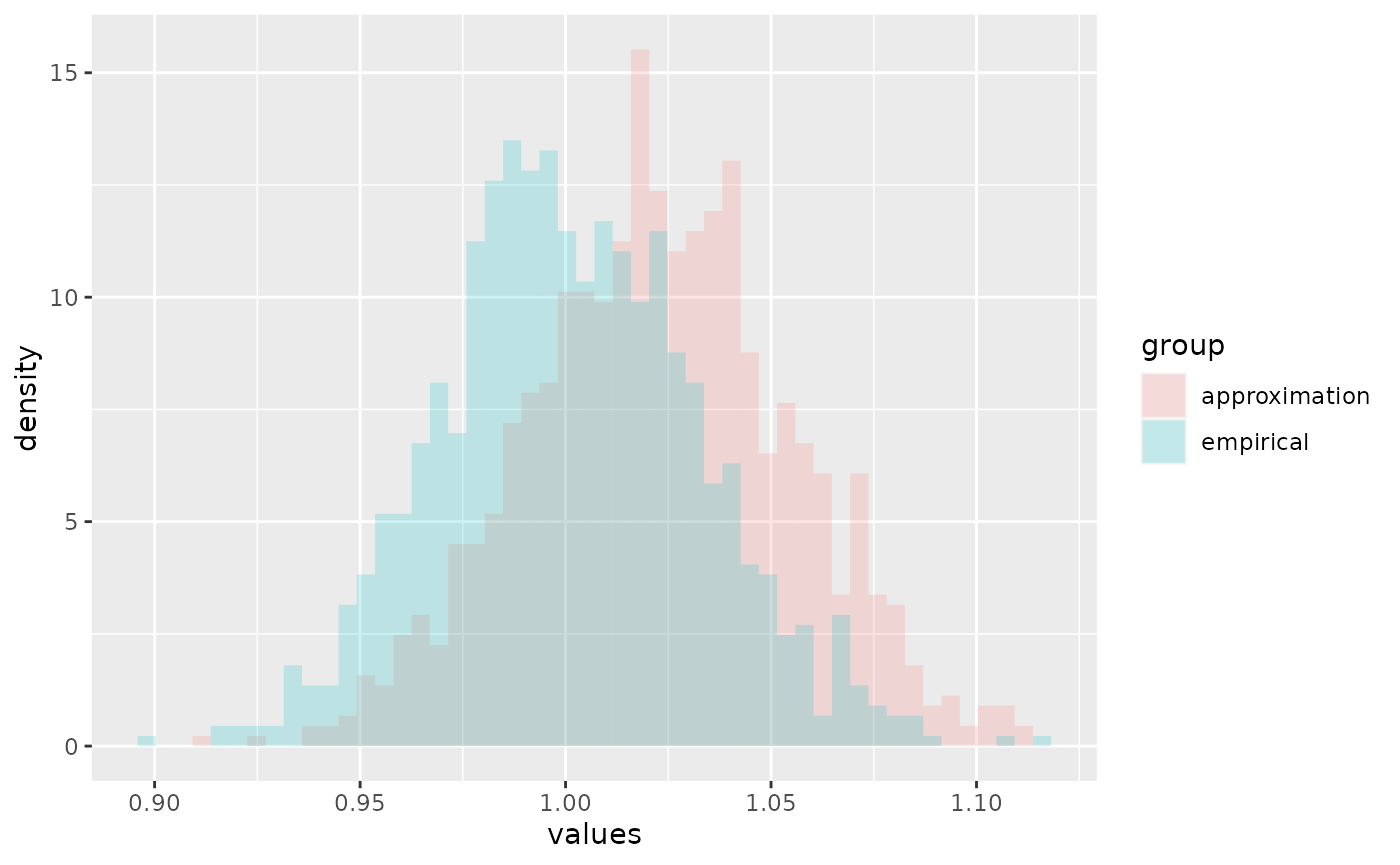
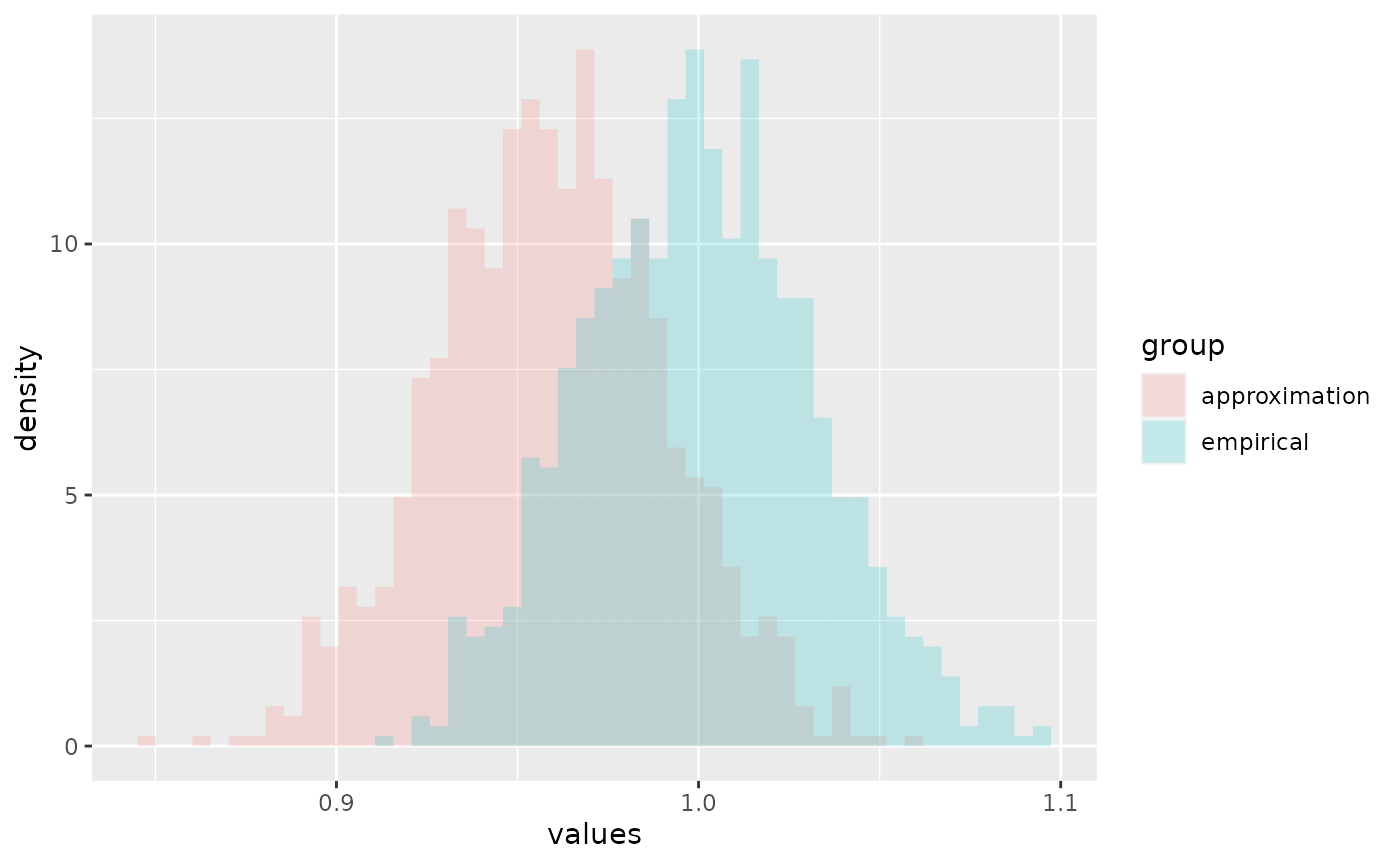
Built site for algebraic.mle: 0.1.0@a93bfe0

diff --git a/articles/exponential-mle.html b/articles/exponential-mle.html
@@ -85,9 +85,7 @@
 <p>To demonstrate the <code>algebraic.mle</code> R package, we consider the relatively simple case of a random sample from the exponentially distributed random variables.</p>
 <p>First, we load the R package <code>algebraic.mle</code> with:</p>
 <div class="sourceCode" id="cb1"><pre class="downlit sourceCode r">
-<code class="sourceCode R"><span class="co">#library(devtools)</span>
-<span class="co">#devtools::install_github("queelius/algebraic.mle")</span>
-<span class="kw"><a href="https://rdrr.io/r/base/library.html" class="external-link">library</a></span><span class="op">(</span><span class="va"><a href="https://github.com/queelius/algebraic.mle" class="external-link">algebraic.mle</a></span><span class="op">)</span></code></pre></div>
+<code class="sourceCode R"><span class="kw"><a href="https://rdrr.io/r/base/library.html" class="external-link">library</a></span><span class="op">(</span><span class="va"><a href="https://github.com/queelius/algebraic.mle" class="external-link">algebraic.mle</a></span><span class="op">)</span></code></pre></div>
 </div>
 <div class="section level2">
 <h2 id="generating-a-sample">Generating a sample<a class="anchor" aria-label="anchor" href="#generating-a-sample"></a>
@@ -103,12 +101,12 @@
 <div class="sourceCode" id="cb3"><pre class="downlit sourceCode r">
 <code class="sourceCode R"><span class="fu"><a href="https://rdrr.io/r/base/print.html" class="external-link">print</a></span><span class="op">(</span><span class="fu"><a href="https://rdrr.io/r/utils/head.html" class="external-link">head</a></span><span class="op">(</span><span class="va">x</span>,n<span class="op">=</span><span class="fl">4</span><span class="op">)</span><span class="op">)</span>
 <span class="co">#&gt; <span style="color: #949494;"># A tibble: 4 × 1</span></span>
-<span class="co">#&gt;        x</span>
-<span class="co">#&gt;    <span style="color: #949494; font-style: italic;">&lt;dbl&gt;</span></span>
-<span class="co">#&gt; <span style="color: #BCBCBC;">1</span> 0.028<span style="text-decoration: underline;">2</span></span>
-<span class="co">#&gt; <span style="color: #BCBCBC;">2</span> 0.041<span style="text-decoration: underline;">0</span></span>
-<span class="co">#&gt; <span style="color: #BCBCBC;">3</span> 1.26  </span>
-<span class="co">#&gt; <span style="color: #BCBCBC;">4</span> 1.12</span></code></pre></div>
+<span class="co">#&gt;       x</span>
+<span class="co">#&gt;   <span style="color: #949494; font-style: italic;">&lt;dbl&gt;</span></span>
+<span class="co">#&gt; <span style="color: #BCBCBC;">1</span> 2.71 </span>
+<span class="co">#&gt; <span style="color: #BCBCBC;">2</span> 1.94 </span>
+<span class="co">#&gt; <span style="color: #BCBCBC;">3</span> 0.163</span>
+<span class="co">#&gt; <span style="color: #BCBCBC;">4</span> 0.548</span></code></pre></div>
 <p>We show a histogram of the sample, and a plot of the exponential function’s pdf, with:</p>
 <div class="sourceCode" id="cb4"><pre class="downlit sourceCode r">
 <code class="sourceCode R"><span class="kw"><a href="https://rdrr.io/r/base/library.html" class="external-link">library</a></span><span class="op">(</span><span class="va"><a href="https://ggplot2.tidyverse.org" class="external-link">ggplot2</a></span><span class="op">)</span>
@@ -122,40 +120,39 @@
 </h2>
 <p>If we would like to estimate <span class="math inline">\(\lambda\)</span>, we can do so using maximum likelihood estimation as implemented by the <code>algebraic.mle</code> package:</p>
 <div class="sourceCode" id="cb5"><pre class="downlit sourceCode r">
-<code class="sourceCode R"><span class="kw"><a href="https://rdrr.io/r/base/library.html" class="external-link">library</a></span><span class="op">(</span><span class="va"><a href="https://github.com/queelius/algebraic.mle" class="external-link">algebraic.mle</a></span><span class="op">)</span>
-<span class="va">rate.hat</span> <span class="op">&lt;-</span> <span class="fu"><a href="../reference/mle_exp.html">mle_exp</a></span><span class="op">(</span><span class="va">x</span><span class="op">$</span><span class="va">x</span><span class="op">)</span>
+<code class="sourceCode R"><span class="va">rate.hat</span> <span class="op">&lt;-</span> <span class="fu"><a href="../reference/mle_exp.html">mle_exp</a></span><span class="op">(</span><span class="va">x</span><span class="op">$</span><span class="va">x</span><span class="op">)</span>
 <span class="fu"><a href="https://rdrr.io/r/base/summary.html" class="external-link">summary</a></span><span class="op">(</span><span class="va">rate.hat</span><span class="op">)</span>
 <span class="co">#&gt; Maximum likelihood estimator, of type mle_exp ,</span>
 <span class="co">#&gt; is normally distributed with mean</span>
-<span class="co">#&gt; [1] 1.022601</span>
+<span class="co">#&gt; [1] 0.9586244</span>
 <span class="co">#&gt; and variance-covariance</span>
-<span class="co">#&gt;             [,1]</span>
-<span class="co">#&gt; [1,] 0.001045712</span>
+<span class="co">#&gt;              [,1]</span>
+<span class="co">#&gt; [1,] 0.0009189607</span>
 <span class="co">#&gt; ---</span>
-<span class="co">#&gt; The asymptotic mean squared error 0.001045712 </span>
+<span class="co">#&gt; The asymptotic mean squared error 0.0009189607 </span>
 <span class="co">#&gt; The asymptotic 95% confidence interval is</span>
 <span class="co">#&gt;       2.5 %   97.5 %</span>
-<span class="co">#&gt; 1 0.9694101 1.075791</span>
-<span class="co">#&gt; The log-likelihood is -977.6511 </span>
-<span class="co">#&gt; The AIC is 1957.302</span></code></pre></div>
+<span class="co">#&gt; 1 0.9087617 1.008487</span>
+<span class="co">#&gt; The log-likelihood is -1042.256 </span>
+<span class="co">#&gt; The AIC is 2086.512</span></code></pre></div>
 <p>We can show the point estimator with:</p>
 <div class="sourceCode" id="cb6"><pre class="downlit sourceCode r">
 <code class="sourceCode R"><span class="fu"><a href="../reference/point.html">point</a></span><span class="op">(</span><span class="va">rate.hat</span><span class="op">)</span>
-<span class="co">#&gt; [1] 1.022601</span></code></pre></div>
+<span class="co">#&gt; [1] 0.9586244</span></code></pre></div>
 <p>We can show the Fisher information and variance-covariance matrices with:</p>
 <div class="sourceCode" id="cb7"><pre class="downlit sourceCode r">
 <code class="sourceCode R"><span class="fu"><a href="../reference/fisher_info.html">fisher_info</a></span><span class="op">(</span><span class="va">rate.hat</span><span class="op">)</span>
 <span class="co">#&gt;          [,1]</span>
-<span class="co">#&gt; [1,] 956.2864</span>
+<span class="co">#&gt; [1,] 1088.186</span>
 <span class="fu"><a href="https://rdrr.io/r/stats/vcov.html" class="external-link">vcov</a></span><span class="op">(</span><span class="va">rate.hat</span><span class="op">)</span>
-<span class="co">#&gt;             [,1]</span>
-<span class="co">#&gt; [1,] 0.001045712</span></code></pre></div>
+<span class="co">#&gt;              [,1]</span>
+<span class="co">#&gt; [1,] 0.0009189607</span></code></pre></div>
 <p>(If <code>rate.hat</code> had been a vector, <code>vcov</code> would have output a variance-covariance matrix. We may consider the above outputs <span class="math inline">\(1 \times 1\)</span> matrices.)</p>
 <p>We can show the confidence interval with:</p>
 <div class="sourceCode" id="cb8"><pre class="downlit sourceCode r">
 <code class="sourceCode R"><span class="fu"><a href="https://rdrr.io/r/stats/confint.html" class="external-link">confint</a></span><span class="op">(</span><span class="va">rate.hat</span><span class="op">)</span>
 <span class="co">#&gt;       2.5 %   97.5 %</span>
-<span class="co">#&gt; 1 0.9694101 1.075791</span></code></pre></div>
+<span class="co">#&gt; 1 0.9087617 1.008487</span></code></pre></div>
 <div class="section level3">
 <h3 id="sampling-distribution-of-the-mle">Sampling distribution of the MLE<a class="anchor" aria-label="anchor" href="#sampling-distribution-of-the-mle"></a>
 </h3>
@@ -201,15 +198,16 @@
 <code class="sourceCode R"><span class="va">f</span> <span class="op">&lt;-</span> <span class="kw">function</span><span class="op">(</span><span class="va">lambda</span><span class="op">)</span> <span class="fl">2</span><span class="op">*</span><span class="va">lambda</span></code></pre></div>
 <p>We compute the MLE of <span class="math inline">\(2 \hat\lambda\)</span> (using a simulation size <span class="math inline">\(n=1000\)</span>) with:</p>
 <div class="sourceCode" id="cb13"><pre class="downlit sourceCode r">
-<code class="sourceCode R"><span class="va">g.hat</span> <span class="op">&lt;-</span> <span class="fu"><a href="../reference/rmap.html">rmap</a></span><span class="op">(</span><span class="va">rate.hat</span>,<span class="va">f</span>,n<span class="op">=</span><span class="fl">1000</span><span class="op">)</span></code></pre></div>
+<code class="sourceCode R"><span class="va">f.hat</span> <span class="op">&lt;-</span> <span class="fu"><a href="../reference/rmap.html">rmap</a></span><span class="op">(</span><span class="va">rate.hat</span>,<span class="va">f</span>,n<span class="op">=</span><span class="fl">1000</span><span class="op">)</span></code></pre></div>
+<p>Note that the simulation size is only for estimating <span class="math inline">\(f(\lambda)\)</span>, but the and we can make this as large as we wish, but it will only be as good as the original estimate of <span class="math inline">\(\theta\)</span>, which we cannot control.</p>
 <p>Then, <span class="math inline">\(\operatorname{var}(f(\hat\lambda)) = 4 \lambda^2/n\)</span>. Letting <span class="math inline">\(\lambda=1\)</span>, we see that, asymptotically, <span class="math inline">\(g(\hat\lambda) \sim N(2,4/n)\)</span>.</p>
 <p>We expected a mean of <span class="math inline">\(2\)</span> and a variance of <span class="math inline">\(4/n = 0.004\)</span>, which is pretty close to what we obtained:</p>
 <div class="sourceCode" id="cb14"><pre class="downlit sourceCode r">
-<code class="sourceCode R"><span class="fu"><a href="../reference/point.html">point</a></span><span class="op">(</span><span class="va">g.hat</span><span class="op">)</span>
-<span class="co">#&gt; [1] 2.045201</span>
-<span class="fu"><a href="https://rdrr.io/r/stats/vcov.html" class="external-link">vcov</a></span><span class="op">(</span><span class="va">g.hat</span><span class="op">)</span>
+<code class="sourceCode R"><span class="fu"><a href="../reference/point.html">point</a></span><span class="op">(</span><span class="va">f.hat</span><span class="op">)</span>
+<span class="co">#&gt; [1] 1.917249</span>
+<span class="fu"><a href="https://rdrr.io/r/stats/vcov.html" class="external-link">vcov</a></span><span class="op">(</span><span class="va">f.hat</span><span class="op">)</span>
 <span class="co">#&gt;            [,1]</span>
-<span class="co">#&gt; [1,] 0.00450384</span></code></pre></div>
+<span class="co">#&gt; [1,] 0.00352431</span></code></pre></div>
 </div>
 </div>
 </div>
@@ -237,8 +235,24 @@
     <span class="va">mles.sub</span><span class="op">[[</span><span class="va">i</span><span class="op">]</span><span class="op">]</span> <span class="op">&lt;-</span> <span class="fu"><a href="../reference/mle_exp.html">mle_exp</a></span><span class="op">(</span><span class="va">samp.sub</span><span class="op">[</span><span class="va">i</span>,<span class="op">]</span><span class="op">)</span>
 
 <span class="va">mle.wt</span> <span class="op">&lt;-</span> <span class="fu"><a href="../reference/mle_weighted.html">mle_weighted</a></span><span class="op">(</span><span class="va">mles.sub</span><span class="op">)</span>
+
 <span class="va">mle</span> <span class="op">&lt;-</span> <span class="fu"><a href="../reference/mle_exp.html">mle_exp</a></span><span class="op">(</span><span class="va">samp</span><span class="op">)</span></code></pre></div>
 <p>We show the results in the following table:</p>
+<div class="sourceCode" id="cb16"><pre class="downlit sourceCode r">
+<code class="sourceCode R"><span class="kw"><a href="https://rdrr.io/r/base/library.html" class="external-link">library</a></span><span class="op">(</span><span class="va"><a href="http://haozhu233.github.io/kableExtra/" class="external-link">kableExtra</a></span><span class="op">)</span>
+<span class="va">df</span> <span class="op">&lt;-</span> <span class="fu"><a href="https://rdrr.io/r/base/data.frame.html" class="external-link">data.frame</a></span><span class="op">(</span>
+    <span class="fu"><a href="https://rdrr.io/r/base/c.html" class="external-link">c</a></span><span class="op">(</span><span class="fu"><a href="../reference/point.html">point</a></span><span class="op">(</span><span class="va">mle.wt</span><span class="op">)</span>,<span class="fu"><a href="../reference/point.html">point</a></span><span class="op">(</span><span class="va">mle</span><span class="op">)</span><span class="op">)</span>,
+    <span class="fu"><a href="https://rdrr.io/r/base/c.html" class="external-link">c</a></span><span class="op">(</span><span class="fu"><a href="https://rdrr.io/r/stats/vcov.html" class="external-link">vcov</a></span><span class="op">(</span><span class="va">mle.wt</span><span class="op">)</span>,<span class="fu"><a href="https://rdrr.io/r/stats/vcov.html" class="external-link">vcov</a></span><span class="op">(</span><span class="va">mle</span><span class="op">)</span><span class="op">)</span><span class="op">)</span>
+
+<span class="fu"><a href="https://rdrr.io/r/base/colnames.html" class="external-link">colnames</a></span><span class="op">(</span><span class="va">df</span><span class="op">)</span> <span class="op">&lt;-</span> <span class="fu"><a href="https://rdrr.io/r/base/c.html" class="external-link">c</a></span><span class="op">(</span><span class="st">"point estimate"</span>,<span class="st">"variance"</span><span class="op">)</span>
+<span class="fu"><a href="https://tibble.tidyverse.org/reference/rownames.html" class="external-link">rownames</a></span><span class="op">(</span><span class="va">df</span><span class="op">)</span> <span class="op">&lt;-</span> <span class="fu"><a href="https://rdrr.io/r/base/c.html" class="external-link">c</a></span><span class="op">(</span><span class="st">"weighted MLE"</span>, <span class="st">"MLE"</span><span class="op">)</span>
+
+<span class="fu">knitr</span><span class="fu">::</span><span class="fu"><a href="https://rdrr.io/pkg/knitr/man/kable.html" class="external-link">kable</a></span><span class="op">(</span><span class="va">df</span>,
+             bootstrap_options<span class="op">=</span><span class="st">"striped"</span>,
+             full_width<span class="op">=</span><span class="cn">F</span>,
+             digits<span class="op">=</span><span class="fl">3</span>,
+             label<span class="op">=</span><span class="st">"weighted.mle"</span>,
+             caption<span class="op">=</span><span class="st">"Weighted MLE vs MLE"</span><span class="op">)</span></code></pre></div>
 <p>We see that <span class="math inline">\(\hat\theta\)</span> and <span class="math inline">\(\hat\theta_w\)</span> model approximately the same sampling distribution for <span class="math inline">\(\theta\)</span>.</p>
 </div>
 </div>

diff --git a/reference/algebraic.mle.html b/reference/algebraic.mle.html
@@ -1,7 +1,13 @@
 <!DOCTYPE html>
-<!-- Generated by pkgdown: do not edit by hand --><html lang="en"><head><meta http-equiv="Content-Type" content="text/html; charset=UTF-8"><meta charset="utf-8"><meta http-equiv="X-UA-Compatible" content="IE=edge"><meta name="viewport" content="width=device-width, initial-scale=1, shrink-to-fit=no"><meta name="description" content="The algebraic.mle package provides three categories of important functions:"><title>algebraic.mle: A package for algebraically operating on maximum likelihood
-               estimators. — algebraic.mle • algebraic.mle</title><script src="../deps/jquery-3.6.0/jquery-3.6.0.min.js"></script><meta name="viewport" content="width=device-width, initial-scale=1, shrink-to-fit=no"><link href="../deps/bootstrap-5.1.0/bootstrap.min.css" rel="stylesheet"><script src="../deps/bootstrap-5.1.0/bootstrap.bundle.min.js"></script><!-- Font Awesome icons --><link rel="stylesheet" href="https://cdnjs.cloudflare.com/ajax/libs/font-awesome/5.12.1/css/all.min.css" integrity="sha256-mmgLkCYLUQbXn0B1SRqzHar6dCnv9oZFPEC1g1cwlkk=" crossorigin="anonymous"><link rel="stylesheet" href="https://cdnjs.cloudflare.com/ajax/libs/font-awesome/5.12.1/css/v4-shims.min.css" integrity="sha256-wZjR52fzng1pJHwx4aV2AO3yyTOXrcDW7jBpJtTwVxw=" crossorigin="anonymous"><!-- bootstrap-toc --><script src="https://cdn.rawgit.com/afeld/bootstrap-toc/v1.0.1/dist/bootstrap-toc.min.js"></script><!-- headroom.js --><script src="https://cdnjs.cloudflare.com/ajax/libs/headroom/0.11.0/headroom.min.js" integrity="sha256-AsUX4SJE1+yuDu5+mAVzJbuYNPHj/WroHuZ8Ir/CkE0=" crossorigin="anonymous"></script><script src="https://cdnjs.cloudflare.com/ajax/libs/headroom/0.11.0/jQuery.headroom.min.js" integrity="sha256-ZX/yNShbjqsohH1k95liqY9Gd8uOiE1S4vZc+9KQ1K4=" crossorigin="anonymous"></script><!-- clipboard.js --><script src="https://cdnjs.cloudflare.com/ajax/libs/clipboard.js/2.0.6/clipboard.min.js" integrity="sha256-inc5kl9MA1hkeYUt+EC3BhlIgyp/2jDIyBLS6k3UxPI=" crossorigin="anonymous"></script><!-- search --><script src="https://cdnjs.cloudflare.com/ajax/libs/fuse.js/6.4.6/fuse.js" integrity="sha512-zv6Ywkjyktsohkbp9bb45V6tEMoWhzFzXis+LrMehmJZZSys19Yxf1dopHx7WzIKxr5tK2dVcYmaCk2uqdjF4A==" crossorigin="anonymous"></script><script src="https://cdnjs.cloudflare.com/ajax/libs/autocomplete.js/0.38.0/autocomplete.jquery.min.js" integrity="sha512-GU9ayf+66Xx2TmpxqJpliWbT5PiGYxpaG8rfnBEk1LL8l1KGkRShhngwdXK1UgqhAzWpZHSiYPc09/NwDQIGyg==" crossorigin="anonymous"></script><script src="https://cdnjs.cloudflare.com/ajax/libs/mark.js/8.11.1/mark.min.js" integrity="sha512-5CYOlHXGh6QpOFA/TeTylKLWfB3ftPsde7AnmhuitiTX4K5SqCLBeKro6sPS8ilsz1Q4NRx3v8Ko2IBiszzdww==" crossorigin="anonymous"></script><!-- pkgdown --><script src="../pkgdown.js"></script><meta property="og:title" content="algebraic.mle: A package for algebraically operating on maximum likelihood
-               estimators. — algebraic.mle"><meta property="og:description" content="The algebraic.mle package provides three categories of important functions:"><!-- mathjax --><script src="https://cdnjs.cloudflare.com/ajax/libs/mathjax/2.7.5/MathJax.js" integrity="sha256-nvJJv9wWKEm88qvoQl9ekL2J+k/RWIsaSScxxlsrv8k=" crossorigin="anonymous"></script><script src="https://cdnjs.cloudflare.com/ajax/libs/mathjax/2.7.5/config/TeX-AMS-MML_HTMLorMML.js" integrity="sha256-84DKXVJXs0/F8OTMzX4UR909+jtl4G7SPypPavF+GfA=" crossorigin="anonymous"></script><!--[if lt IE 9]>
+<!-- Generated by pkgdown: do not edit by hand --><html lang="en"><head><meta http-equiv="Content-Type" content="text/html; charset=UTF-8"><meta charset="utf-8"><meta http-equiv="X-UA-Compatible" content="IE=edge"><meta name="viewport" content="width=device-width, initial-scale=1, shrink-to-fit=no"><meta name="description" content="The object representing a fitted model is a type of mle object, the maximum
+likelihood estimator of the model with respect to observed data.
+In what follows, we briefly define the API (generic functions, mostly) with
+default implementations for objects that inherit from mle:"><title>algebraic.mle: A package for algebraically operating on and generating
+maximum likelihood estimators. — algebraic.mle • algebraic.mle</title><script src="../deps/jquery-3.6.0/jquery-3.6.0.min.js"></script><meta name="viewport" content="width=device-width, initial-scale=1, shrink-to-fit=no"><link href="../deps/bootstrap-5.1.0/bootstrap.min.css" rel="stylesheet"><script src="../deps/bootstrap-5.1.0/bootstrap.bundle.min.js"></script><!-- Font Awesome icons --><link rel="stylesheet" href="https://cdnjs.cloudflare.com/ajax/libs/font-awesome/5.12.1/css/all.min.css" integrity="sha256-mmgLkCYLUQbXn0B1SRqzHar6dCnv9oZFPEC1g1cwlkk=" crossorigin="anonymous"><link rel="stylesheet" href="https://cdnjs.cloudflare.com/ajax/libs/font-awesome/5.12.1/css/v4-shims.min.css" integrity="sha256-wZjR52fzng1pJHwx4aV2AO3yyTOXrcDW7jBpJtTwVxw=" crossorigin="anonymous"><!-- bootstrap-toc --><script src="https://cdn.rawgit.com/afeld/bootstrap-toc/v1.0.1/dist/bootstrap-toc.min.js"></script><!-- headroom.js --><script src="https://cdnjs.cloudflare.com/ajax/libs/headroom/0.11.0/headroom.min.js" integrity="sha256-AsUX4SJE1+yuDu5+mAVzJbuYNPHj/WroHuZ8Ir/CkE0=" crossorigin="anonymous"></script><script src="https://cdnjs.cloudflare.com/ajax/libs/headroom/0.11.0/jQuery.headroom.min.js" integrity="sha256-ZX/yNShbjqsohH1k95liqY9Gd8uOiE1S4vZc+9KQ1K4=" crossorigin="anonymous"></script><!-- clipboard.js --><script src="https://cdnjs.cloudflare.com/ajax/libs/clipboard.js/2.0.6/clipboard.min.js" integrity="sha256-inc5kl9MA1hkeYUt+EC3BhlIgyp/2jDIyBLS6k3UxPI=" crossorigin="anonymous"></script><!-- search --><script src="https://cdnjs.cloudflare.com/ajax/libs/fuse.js/6.4.6/fuse.js" integrity="sha512-zv6Ywkjyktsohkbp9bb45V6tEMoWhzFzXis+LrMehmJZZSys19Yxf1dopHx7WzIKxr5tK2dVcYmaCk2uqdjF4A==" crossorigin="anonymous"></script><script src="https://cdnjs.cloudflare.com/ajax/libs/autocomplete.js/0.38.0/autocomplete.jquery.min.js" integrity="sha512-GU9ayf+66Xx2TmpxqJpliWbT5PiGYxpaG8rfnBEk1LL8l1KGkRShhngwdXK1UgqhAzWpZHSiYPc09/NwDQIGyg==" crossorigin="anonymous"></script><script src="https://cdnjs.cloudflare.com/ajax/libs/mark.js/8.11.1/mark.min.js" integrity="sha512-5CYOlHXGh6QpOFA/TeTylKLWfB3ftPsde7AnmhuitiTX4K5SqCLBeKro6sPS8ilsz1Q4NRx3v8Ko2IBiszzdww==" crossorigin="anonymous"></script><!-- pkgdown --><script src="../pkgdown.js"></script><meta property="og:title" content="algebraic.mle: A package for algebraically operating on and generating
+maximum likelihood estimators. — algebraic.mle"><meta property="og:description" content="The object representing a fitted model is a type of mle object, the maximum
+likelihood estimator of the model with respect to observed data.
+In what follows, we briefly define the API (generic functions, mostly) with
+default implementations for objects that inherit from mle:"><!-- mathjax --><script src="https://cdnjs.cloudflare.com/ajax/libs/mathjax/2.7.5/MathJax.js" integrity="sha256-nvJJv9wWKEm88qvoQl9ekL2J+k/RWIsaSScxxlsrv8k=" crossorigin="anonymous"></script><script src="https://cdnjs.cloudflare.com/ajax/libs/mathjax/2.7.5/config/TeX-AMS-MML_HTMLorMML.js" integrity="sha256-84DKXVJXs0/F8OTMzX4UR909+jtl4G7SPypPavF+GfA=" crossorigin="anonymous"></script><!--[if lt IE 9]>
 <script src="https://oss.maxcdn.com/html5shiv/3.7.3/html5shiv.min.js"></script>
 <script src="https://oss.maxcdn.com/respond/1.4.2/respond.min.js"></script>
 <![endif]--></head><body>
@@ -48,17 +54,53 @@
 </nav><div class="container template-reference-topic">
 <div class="row">
   <main id="main" class="col-md-9"><div class="page-header">
-      <img src="" class="logo" alt=""><h1>algebraic.mle: A package for algebraically operating on maximum likelihood
-               estimators.</h1>
+      <img src="" class="logo" alt=""><h1><code>algebraic.mle</code>: A package for algebraically operating on and generating
+maximum likelihood estimators.</h1>
       <small class="dont-index">Source: <a href="https://github.com/queelius/algebraic.mle/blob/HEAD/R/algebraic.mle.R" class="external-link"><code>R/algebraic.mle.R</code></a></small>
       <div class="d-none name"><code>algebraic.mle.Rd</code></div>
     </div>
 
     <div class="ref-description section level2">
-    <p>The algebraic.mle package provides three categories of important functions:</p>
+    <p>The object representing a fitted model is a type of <code>mle</code> object, the maximum
+likelihood estimator of the model with respect to observed data.
+In what follows, we briefly define the API (generic functions, mostly) with
+default implementations for objects that inherit from <code>mle</code>:</p>
     </div>
 
 
+    <div class="section level2">
+    <h2 id="details">Details<a class="anchor" aria-label="anchor" href="#details"></a></h2>
+    <p><code>vcov(mle)</code> returns the variance-covariance matrix of the model
+parameter estimates.</p>
+<p><code>point(mle)</code> returns the point that maximizes the likelihood
+of the model.</p>
+<p><code>confint(mle)</code> returns confidence intervals of the true parameter value
+estimated by the <code>mle</code> object.</p>
+<p><code>sampler(mle)</code> maps to a function that may be used to sample from the
+sampling distribution of the <code>mle</code> object.</p>
+<p><code>mse(mle)</code> computes the asymptotic mean squared error of the <code>mle</code> object.</p>
+<p><code>mle_weighted(mles)</code> computes the weighted maximum likelihood estimate
+from independent <code>mle</code> objects in the list argument <code>mles</code>.</p>
+<p><code>fisher_info(mle)</code> returns the Fisher information matrix of the model's
+parameters.</p>
+<p><code>rmap(mle,g)</code> provides an approximation of the maximum likelihood estimator
+that is a function of another <code>mle</code> object. Note that <code>numerical_mle</code>
+inherits from <code>mle</code>.</p>
+<p>Finally, since normal distributions are closed under linear transformations,
+then letting <code>A</code> be a <code>p</code>-by-<code>q</code> matrix and <code>x</code> be a
+<code>q</code> dimensional <code>mle</code> object, then <code>prod(A,x)</code> is a <code>p</code>
+dimensional multivariate normal with a mean <code>prod(A,x)</code> and a
+variance-covariance <code>prod(tr(A),vcov(x),A</code>.
+Furthermore, by the invariance property of the MLE, <code>prod(A,x)</code> is the
+MLE of <code>prod(A,true(x))</code> where <code>true(x)</code> is the (usually unknown)
+parameter being estimated by <code>x</code>.</p>
+<p>We define a set of generic functions for multiplying <code>mle</code> objects by
+(non-random) matrices and vectors to permit these sort of operations, with
+the asymptotic distributions of the operators applied to the <code>mle</code> objects
+exactly known if the asymptotic distribution of the <code>mle</code> objects are
+exactly known.</p>
+<p>See <code>rmap</code> for when the operation is non-linear.</p>
+    </div>
 
   </main></div>
 

diff --git a/reference/index.html b/reference/index.html
@@ -74,8 +74,8 @@
           
           <code><a href="algebraic.mle.html">algebraic.mle</a></code> 
         </dt>
-        <dd>algebraic.mle: A package for algebraically operating on maximum likelihood
-               estimators.</dd>
+        <dd><code>algebraic.mle</code>: A package for algebraically operating on and generating
+maximum likelihood estimators.</dd>
       </dl><dl><dt>
           
           <code><a href="confint.mle.html">confint(<i>&lt;mle&gt;</i>)</a></code> 
